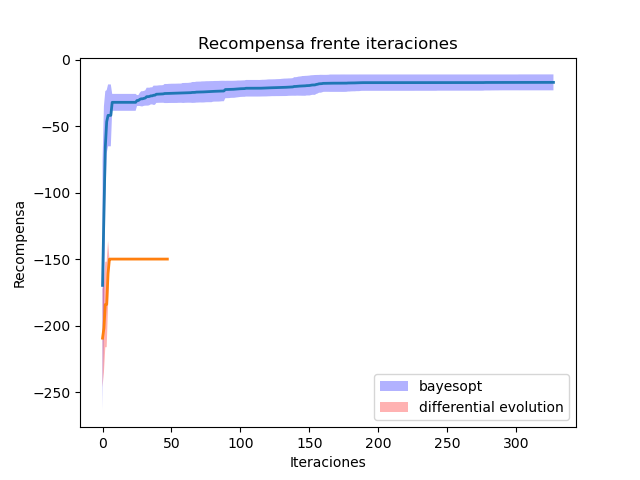
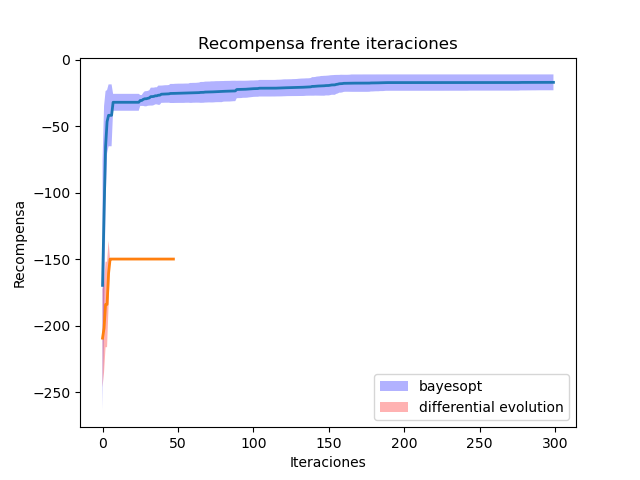
Optimización difevol para dos botones.

diff --git a/optimizacion_difevol.py b/optimizacion_difevol.py
@@ -5,7 +5,7 @@ import params_opt
 
 TASK_DIR = "push_button/"
 # coords_type = 'esfericas'
-VARIATION = "1button"
+VARIATION = "2button"
 TASK_NAME = "push_button"  # + "_" + coords_type
 
 bounds = params_opt.difevol_bounds(task=TASK_NAME, variation=VARIATION)
@@ -26,7 +26,7 @@ for i in range(n_experimentos):
     print(i)
     function.clean_lists()
     result = differential_evolution(function.push_button, bounds,
-                                    maxiter=maxiter, disp=True, polish=False)
+                                    maxiter=maxiter, popsize=popsize, disp=True, polish=False)
     print(result)
     listas_optimizacion = function.return_lists()
     listas.append(listas_optimizacion)

diff --git a/push_button/push_button_function.py b/push_button/push_button_function.py
@@ -114,7 +114,7 @@ class PushButton(object):
                         print(error_alpha, error_beta, error_gamma)
             except ConfigurationPathError:
                 print('Could not find path')
-                reward = -200
+                reward = -300
                 print("Recompensa:")
                 print(reward)
                 self.pyrep.stop()  # Stop the simulation

diff --git a/print_graph.py b/print_graph.py
@@ -6,7 +6,7 @@ import scipy.stats as sp
 TASK_DIR = "push_button/"
 TASK_NAME = "push_button"
 # coords_type = "esfericas"
-VARIATION = "1button"
+VARIATION = "2button"
 
 file1 = TASK_DIR + "listas_bayesopt_" + TASK_NAME + "_" + VARIATION + ".p"
 resultados1 = pickle.load(open(file1, "rb"))
